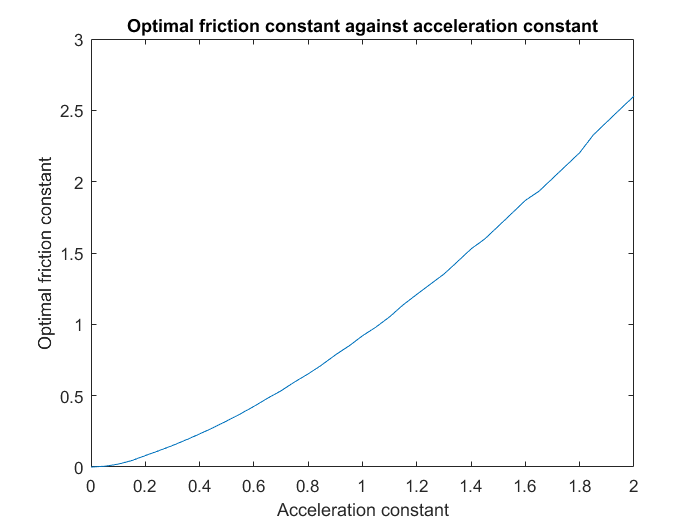
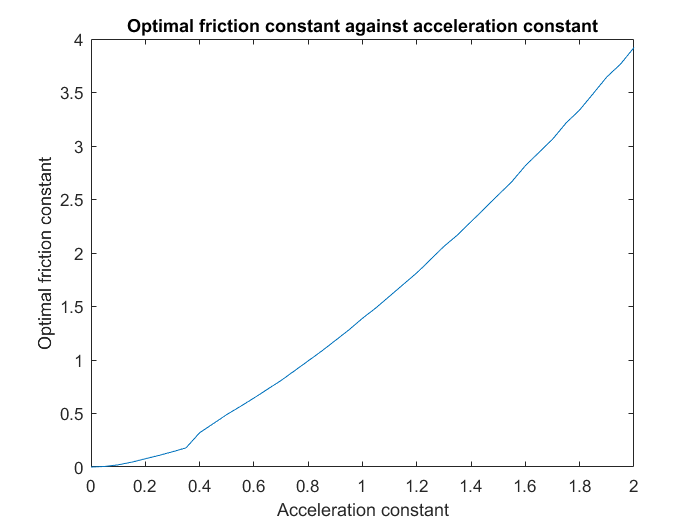
CHANGE constants
Changedes some constants in the simulation.

diff --git a/runProgram.m b/runProgram.m
@@ -22,8 +22,8 @@ xlabel('Time')
 ylabel('Position')
 
 %%% Determining optimal constants
-stableFraction = 1/5;% The fraction of the target value that needs to be reached before the system is stable.
-timeEnd = 200;% The maximum time for determining stability.
+stableFraction = 1/20;% The fraction of the target value that needs to be reached before the system is stable.
+timeEnd = 1000;% The maximum time for determining stability.
 accelerationConstantSteps = 0.05;% The steps in the acceleration constant.
 accelerationConstantEnd = 2;% The maximim value of the acceleration constant.
 
